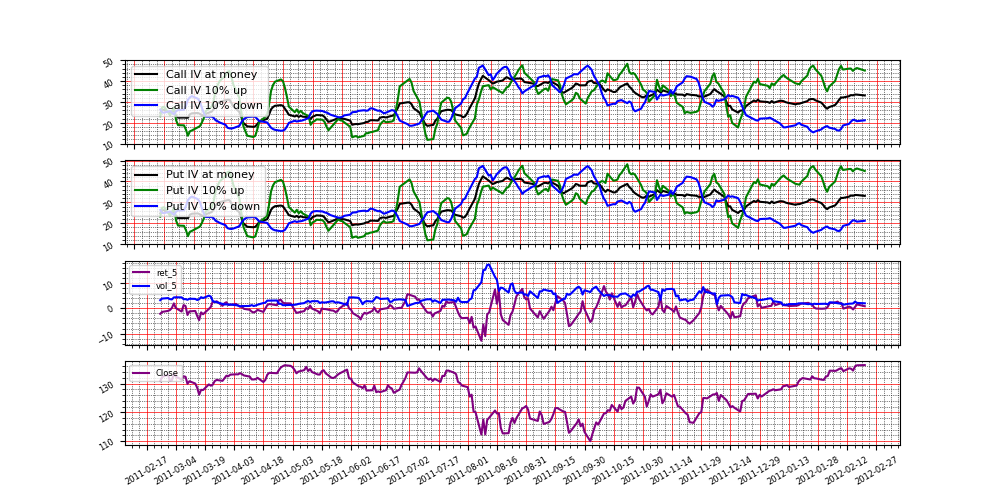
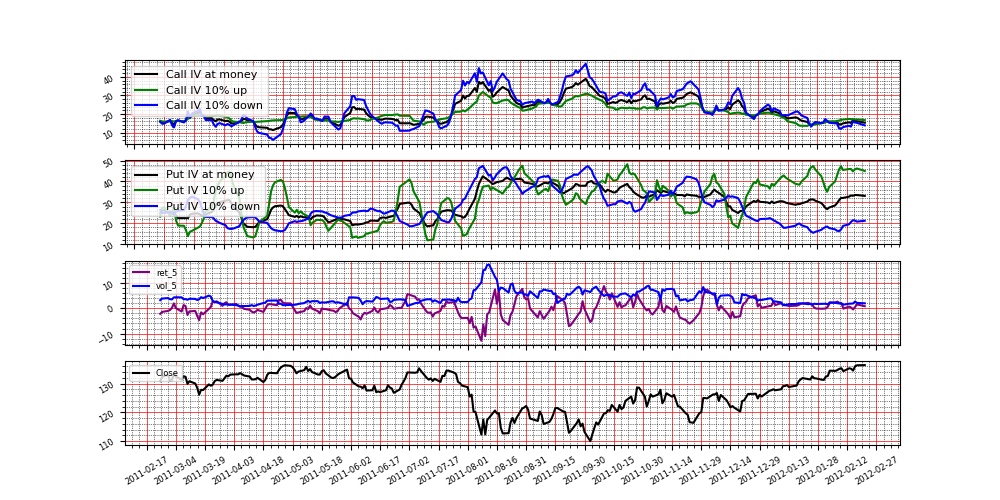
Add IV at different moneyness

diff --git a/volatility/models_IV.py b/volatility/models_IV.py
@@ -69,7 +69,6 @@ def get_IV(df, df_option, test_size, ir_free, keyList=[], keyList_vol=[], keyLis
     df_ret = pd.DataFrame()
     df_ret['Date'] = df['Date'][len(df)-test_size:]
     df_ret['Date_str'] = df['Date_str'][len(df)-test_size:]
-    lm = linear_model.LinearRegression()
     dates = list(df_ret['Date_str'])
     for k in range(len(keyList)):
         key, key_vol, key_ATR = keyList[k], keyList_vol[k], keyList_ATR[k]
@@ -109,8 +108,12 @@ def get_IV(df, df_option, test_size, ir_free, keyList=[], keyList_vol=[], keyLis
                 rows_iv.append({'Strike':k, 'Days_exp':days_exp, 'Type':type_, 'IV':iv})
             df_iv = pd.DataFrame(rows_iv)
             df_iv_c, df_iv_p = df_iv[df_iv['Type'] == 'C'], df_iv[df_iv['Type'] == 'P']
-            X_c, X_p, y_c, y_p = np.array(df_iv_c[['Strike', 'Days_exp']]), np.array(df_iv_p[['Strike', 'Days_exp']]), np.array(df_iv_c['IV']), np.array(df_iv_p['IV'])
-            model_c, model_p = lm.fit(X_c, y_c), lm.fit(X_p, y_p)
+            X_c, y_c = np.array(df_iv_c[['Strike', 'Days_exp']]), np.array(df_iv_c['IV'])
+            lm_c = linear_model.LinearRegression()
+            model_c = lm_c.fit(X_c, y_c)
+            X_p, y_p = np.array(df_iv_p[['Strike', 'Days_exp']]), np.array(df_iv_p['IV'])
+            lm_p = linear_model.LinearRegression()
+            model_p = lm_p.fit(X_p, y_p)
             x_, x_10u, x_10d = np.array(pd.DataFrame([{'Strike':s, 'Days_exp':30}])), np.array(pd.DataFrame([{'Strike':s*1.1, 'Days_exp':30}])), np.array(pd.DataFrame([{'Strike':s*0.9, 'Days_exp':30}]))
             iv_am_c, iv_am_c10u, iv_am_c10d = model_c.predict(x_)[0], model_c.predict(x_10u)[0], model_c.predict(x_10d)[0]
             iv_am_p, iv_am_p10u, iv_am_p10d = model_p.predict(x_)[0], model_p.predict(x_10u)[0], model_p.predict(x_10d)[0]

diff --git a/volatility/IV_different_moneyness.py b/volatility/IV_different_moneyness.py
@@ -56,7 +56,7 @@ for k in range(0, len(keyList), 2):
 ax[2*len(keyList)].legend(keyList+keyList_vol, loc=2, fontsize=6)
 ax[2*len(keyList)].xaxis.set_ticklabels([])
 set_plot(ax[k+2])
-ax[k+3].plot(df['Date'][-test_size:], df['Close'][-test_size:], label=key, color='purple')
+ax[k+3].plot(df['Date'][-test_size:], df['Close'][-test_size:], label=key, color='black')
 ax[k+3].legend(['Close'], loc=2, fontsize=6)
 set_plot(ax[k+3])
 plt.show()
